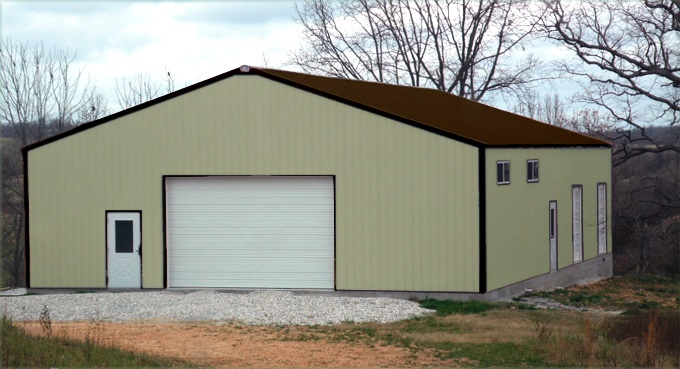
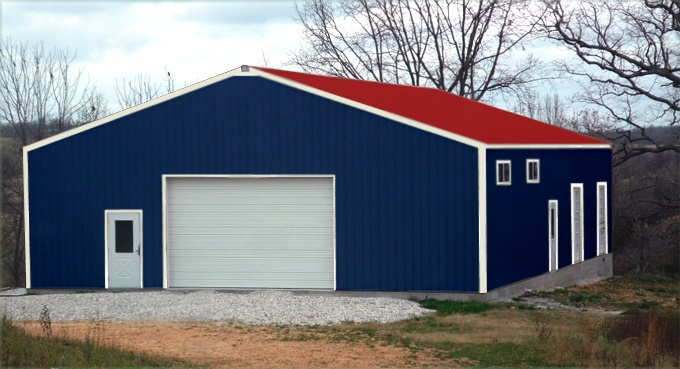
Change building pic to adco color scheme

diff --git a/index.html b/index.html
@@ -46,7 +46,7 @@
 
             <div class="col-md-7">
                 <div class="img-overlay">
-                    <img class="img-responsive" src="img/commercial/commercial.png" alt="Metal Building">
+                    <img class="img-responsive" src="img/commercial/commercial.jpg" alt="Metal Building">
                     <img id="roofPic" class="img-responsive roof-overlay" src="">
                     <img id="wallPic" class="img-responsive roof-overlay" src="">
                     <img id="trimPic" class="img-responsive roof-overlay" src="">
